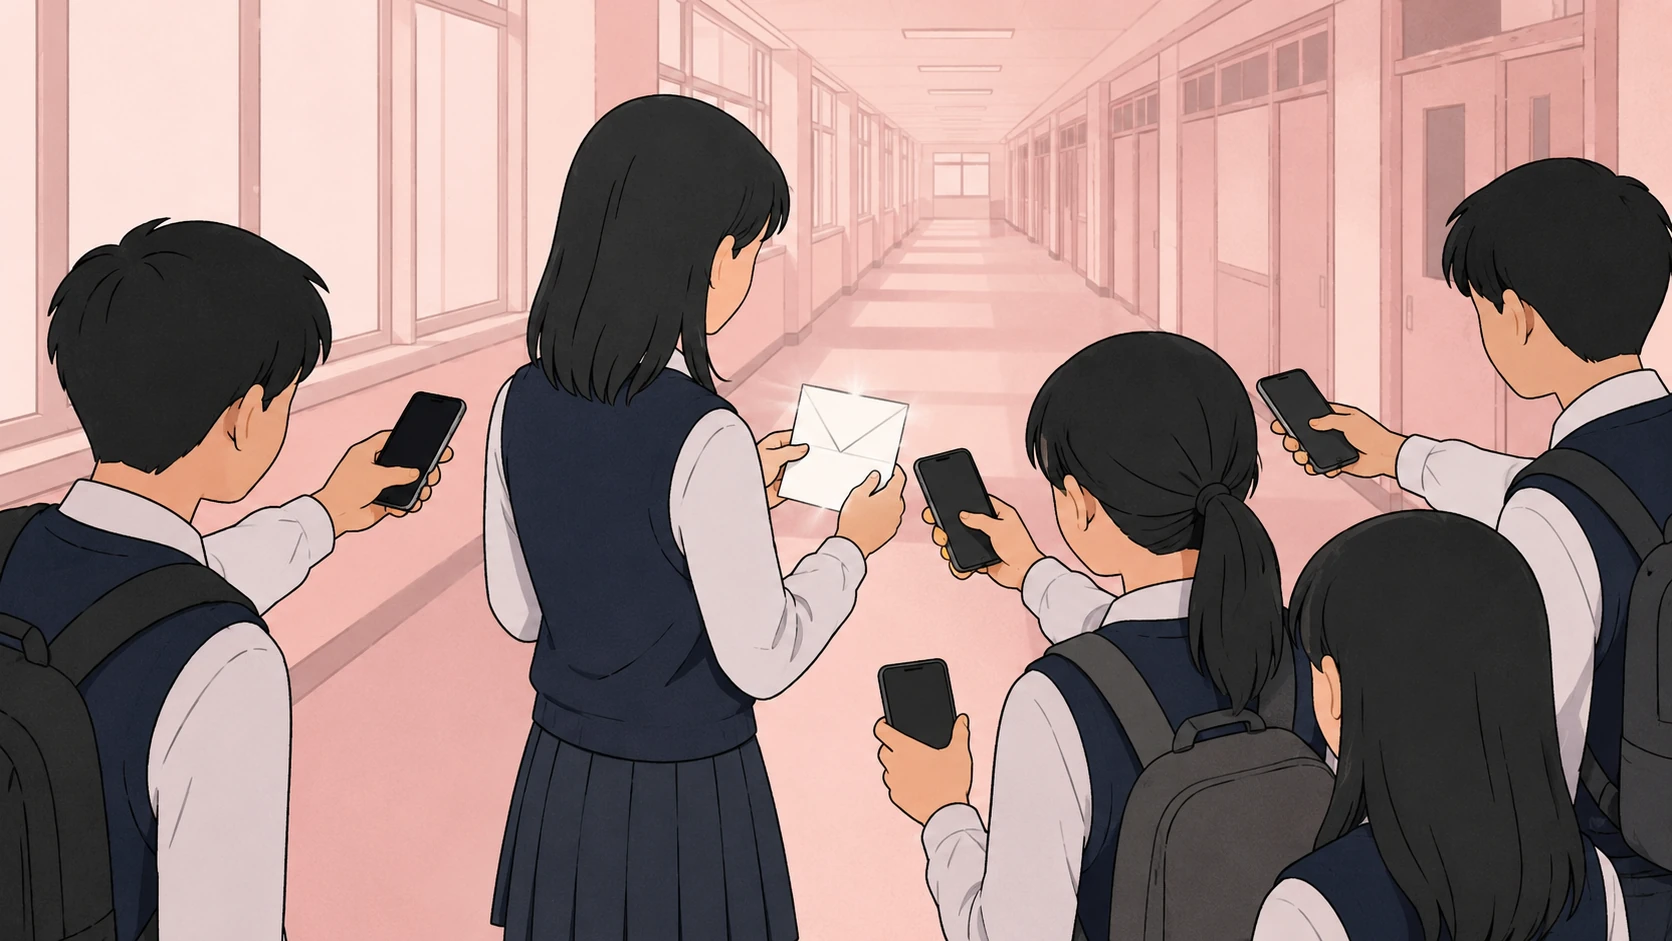
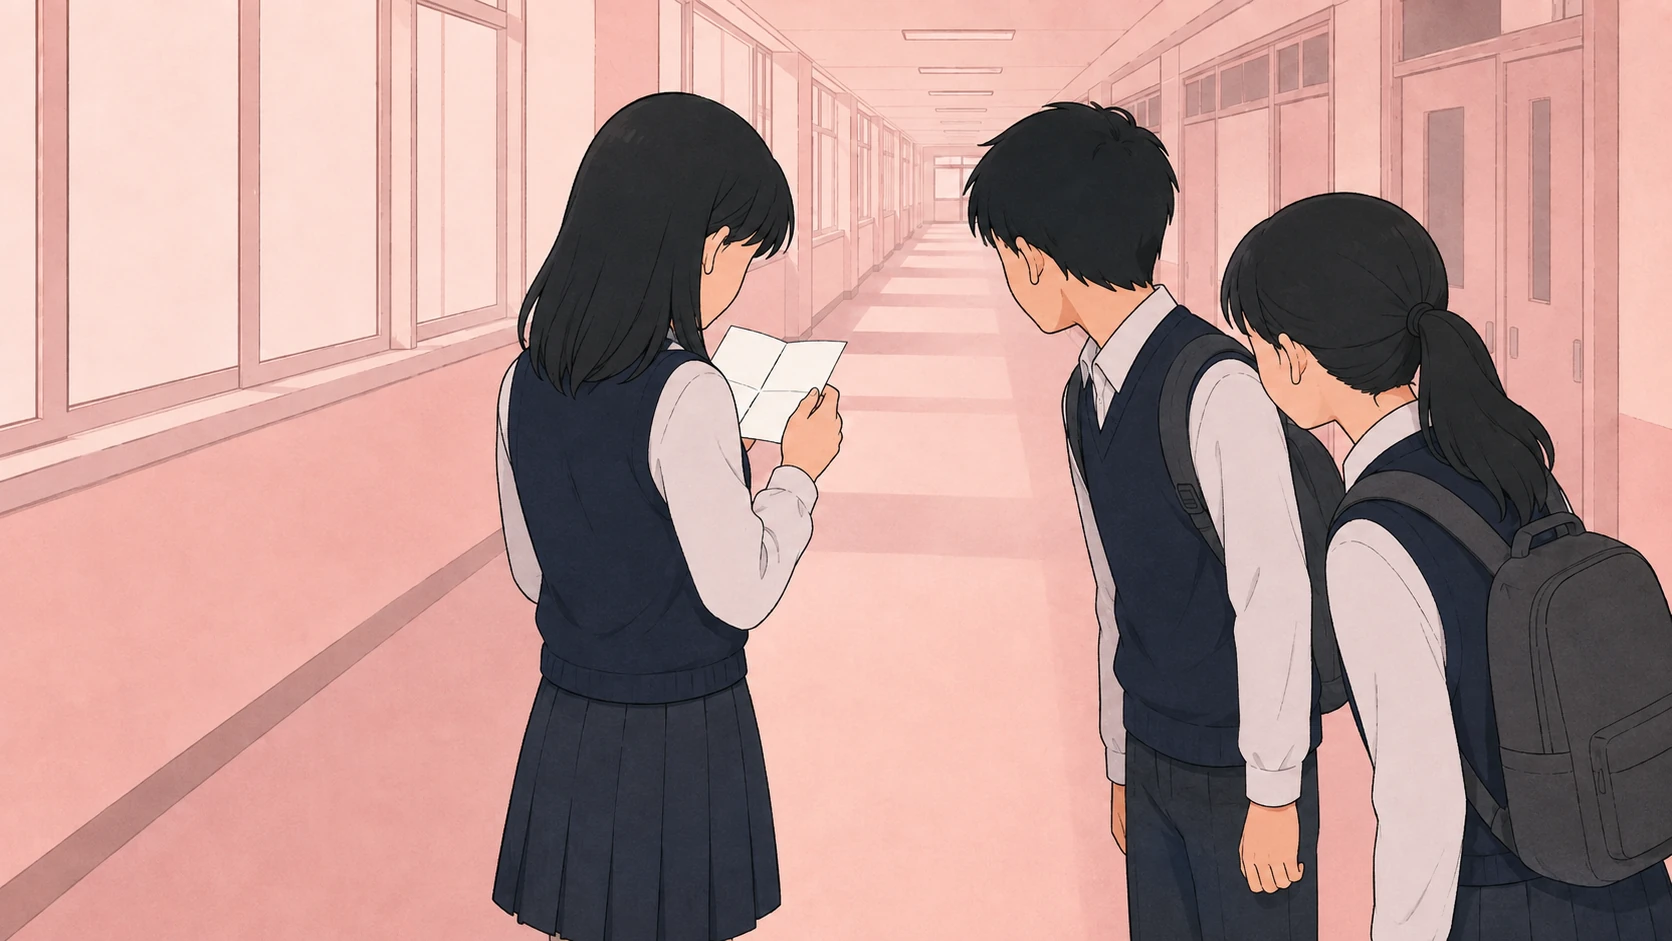
기게스의 반지 3컷에 삽화를 넣고 R4 대사를 덜어낸다
story.json 의 컷마다 image 와 alt 를 둔다. Worker 가 /api/story 에서도
삽화 경로를 찾아 붙이고(시나리오와 같은 방식), 진행자·학생 화면은
storyArt() 로 그림을 그린다. 파일이 없으면 지금까지처럼 이모지가 뜬다.

R4 에서 "단체 대화방에 올려 봐."를 뺀다. 새 삽화에는 폰이 없어서
지문만 폰을 가리키고 있었다. "뭐야 그거?"는 남겨 두 친구가 재촉하는
장면을 유지한다.

삽화 넷을 진짜 webp 로 만든다. r4 는 확장자만 webp 인 png 였다.
9.35MB -> 1.10MB.

diff --git a/public/js/lib/content.js b/public/js/lib/content.js
@@ -90,3 +90,28 @@ export function scenarioArt(scenario, { className = 'scene-art' } = {}) {
   img.src = scenario.imageUrl;
   return img;
 }
+
+/**
+ * 기게스의 반지 3컷 그림.
+ * ring1~3 이 있으면 그림을, 없으면 지금까지처럼 큰 이모지를 돌려준다.
+ * 컷 자체가 이미 색 블록 위에 놓이므로 폴백에 색을 한 겹 더 얹지 않는다.
+ * alt 는 story.json 에 적어 둔 그림 설명을 그대로 쓴다.
+ */
+export function storyArt(panel, { className = 'story-art', emojiClass = 'story-emoji' } = {}) {
+  const fallback = () => {
+    const box = document.createElement('div');
+    box.className = emojiClass;
+    box.textContent = panel?.emoji || '🖼';
+    return box;
+  };
+
+  if (!panel?.imageUrl) return fallback();
+
+  const img = document.createElement('img');
+  img.className = className;
+  img.alt = panel.alt || '';
+  img.decoding = 'async';
+  img.addEventListener('error', () => img.replaceWith(fallback()), { once: true });
+  img.src = panel.imageUrl;
+  return img;
+}

diff --git a/worker/index.js b/worker/index.js
@@ -33,6 +33,14 @@ async function resolveIllustration(env, origin, name) {
   return null;
 }
 
+async function storyWithArt(env, origin) {
+  const panels = [];
+  for (const panel of STORY.panels) {
+    panels.push({ ...panel, imageUrl: await resolveIllustration(env, origin, panel.image) });
+  }
+  return { ...STORY, panels };
+}
+
 async function scenariosWithArt(env, origin) {
   // 구조를 복사해서 imageUrl 만 붙인다 (원본 JSON 은 건드리지 않는다)
   const out = { sets: [] };
@@ -154,7 +162,7 @@ export default {
 
     // 수업 콘텐츠 — content/ 는 정적 폴더 밖이라 Worker 가 직접 내보낸다
     if (pathname === '/api/warmup') return json({ questions: WARMUP_QUESTIONS });
-    if (pathname === '/api/story') return json(STORY);
+    if (pathname === '/api/story') return json(await storyWithArt(env, url.origin));
     if (pathname === '/api/institutions') return json({ institutions: INSTITUTIONS });
 
     if (pathname === '/api/scenarios') {

diff --git a/public/js/student/screens.js b/public/js/student/screens.js
@@ -2,7 +2,7 @@
 // 서버가 보내 주는 값은 전부 "나 자신의" 것이다. 남의 선택은 애초에 오지 않는다.
 
 import { el, countUp } from '../lib/dom.js';
-import { getWarmup, getStory, getInstitutions, CHOICE_META, CHOICE_ORDER } from '../lib/content.js';
+import { getWarmup, getStory, storyArt, getInstitutions, CHOICE_META, CHOICE_ORDER } from '../lib/content.js';
 import { createRoundScreen } from './round.js';
 
 /** kind → (handlers) => { root, update, cleanup } */
@@ -164,7 +164,7 @@ registerScreen('story', () => {
     story.panels.forEach((p, i) => {
       strip.append(el('div', { class: `panel ${BLOCKS[i % BLOCKS.length]} rise rise-${i}` },
         el('p', { class: 'eyebrow' }, p.eyebrow),
-        el('div', { class: 'panel-emoji' }, p.emoji),
+        storyArt(p, { className: 'panel-art', emojiClass: 'panel-emoji' }),
         el('p', { class: 't-body-lg' }, p.text),
       ));
     });

diff --git a/public/js/host/stages.js b/public/js/host/stages.js
@@ -1,7 +1,7 @@
 // 진행자 화면 — 입장 대기 · 워밍업 · 스토리 · 규칙
 
 import { el, countUp, toast } from '../lib/dom.js';
-import { getWarmup, getStory, CHOICE_META, CHOICE_ORDER } from '../lib/content.js';
+import { getWarmup, getStory, storyArt, CHOICE_META, CHOICE_ORDER } from '../lib/content.js';
 import { registerStage, stageHead, swatch } from './render.js';
 
 // ==================================================================
@@ -184,7 +184,7 @@ registerStage('story', (area) => {
     story.panels.forEach((p, i) => {
       strip.append(el('div', { class: `story-panel ${BLOCKS[i % BLOCKS.length]} rise rise-${i}` },
         el('p', { class: 'eyebrow' }, p.eyebrow),
-        el('div', { class: 'story-emoji' }, p.emoji),
+        storyArt(p),
         el('p', { class: 't-subhead' }, p.text),
       ));
     });

diff --git a/public/css/student.css b/public/css/student.css
@@ -376,6 +376,8 @@
 
 .panel { border-radius: var(--r-lg); padding: var(--s-lg); display: grid; gap: var(--s-sm); }
 .panel-emoji { font-size: calc(52px * var(--scale)); line-height: 1; }
+/* 삽화가 있으면 이모지 자리에 들어간다 */
+.panel-art { width: 100%; height: auto; border-radius: var(--r-md); display: block; }
 
 .inst-card { border-radius: var(--r-lg); padding: var(--s-lg); display: grid; gap: var(--s-xs); }
 .inst-big { font-size: calc(40px * var(--scale)); line-height: 1; }

diff --git a/public/css/host.css b/public/css/host.css
@@ -283,6 +283,8 @@
   min-height: calc(320px * var(--scale));
 }
 .story-emoji { font-size: calc(68px * var(--scale)); line-height: 1; }
+/* 삽화가 있으면 이모지 자리에 들어간다 — 컷 폭에 꽉 채운다 */
+.story-art { width: 100%; height: auto; border-radius: var(--r-md); display: block; }
 .story-closing { margin-top: var(--s-lg); padding-top: var(--s-lg); border-top: 1px solid var(--hairline); }
 
 /* ============================================================

diff --git a/public/illustrations/README.md b/public/illustrations/README.md
@@ -4,7 +4,8 @@
 
 ## 파일 이름
 
-`content/scenarios.json` 의 `image` 값과 같은 이름이면 됩니다. **확장자는 아무거나** 괜찮습니다.
+`content/scenarios.json` 과 `content/story.json` 의 `image` 값과 같은 이름이면 됩니다.
+**확장자는 아무거나** 괜찮습니다.
 
 | 파일 이름 | 어디에 뜨는가 |
 |---|---|
@@ -13,6 +14,12 @@
 | `r2.*` | 라운드 2 — 심판의 유혹 |
 | `r3.*` | 라운드 3 — 학급비의 비밀 |
 | `r4.*` | 라운드 4 — 시험지 쪽지 |
+| `ring1.*` | 기게스의 반지 첫째 컷 — 반지를 줍다 |
+| `ring2.*` | 기게스의 반지 둘째 컷 — 몸이 사라지다 |
+| `ring3.*` | 기게스의 반지 셋째 컷 — 궁전에서 훔치다 |
+
+`story.json` 의 컷에는 `alt` 도 함께 적습니다. 화면을 읽어 주는 도구가 그림 대신 읽어 주는
+설명이라, 그림에 무엇이 있는지 그대로 적으면 됩니다. 시나리오 삽화는 제목이 alt 로 쓰입니다.
 
 `png` · `jpg` · `webp` · `gif` · `avif` · `svg` 를 읽습니다.
 같은 이름이 여러 개면 **먼저 적힌 형식이 이깁니다** — 지금 들어 있는 것은 `webp` 라서,
